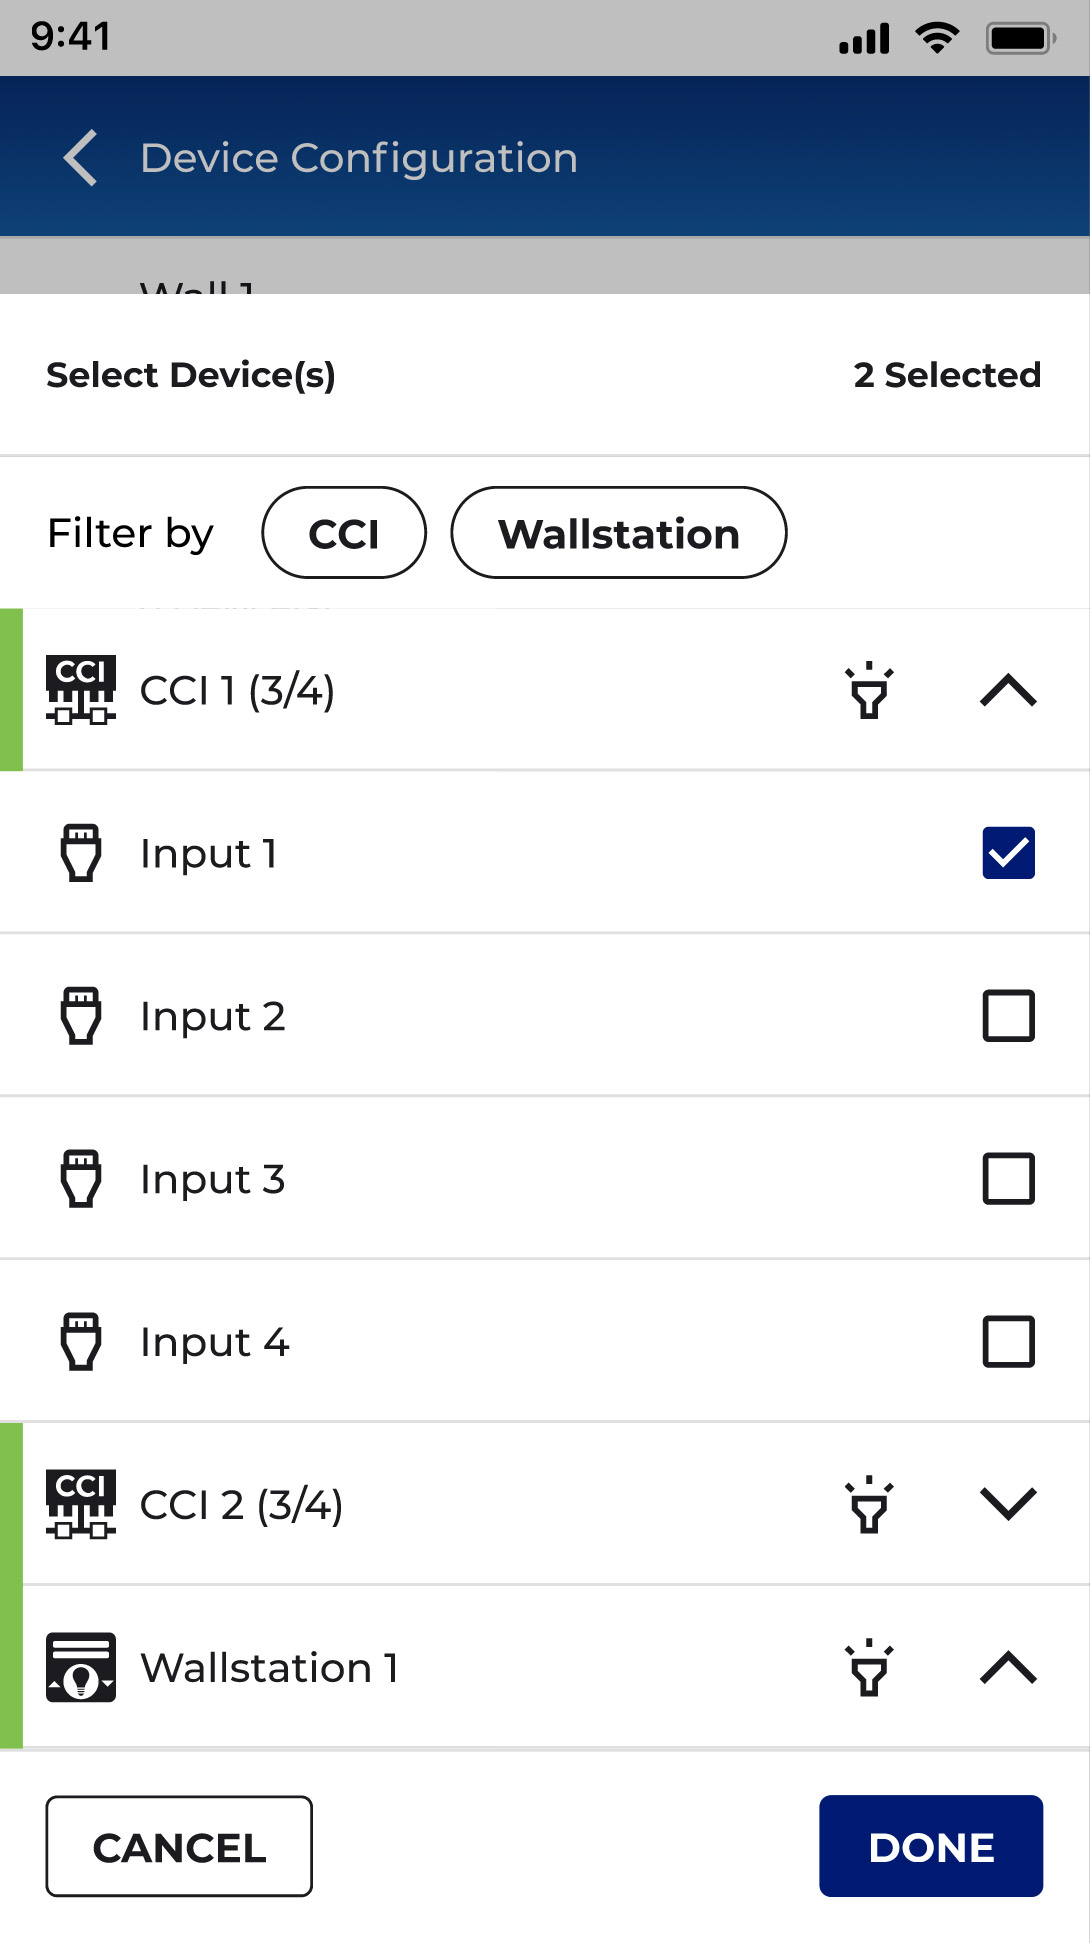
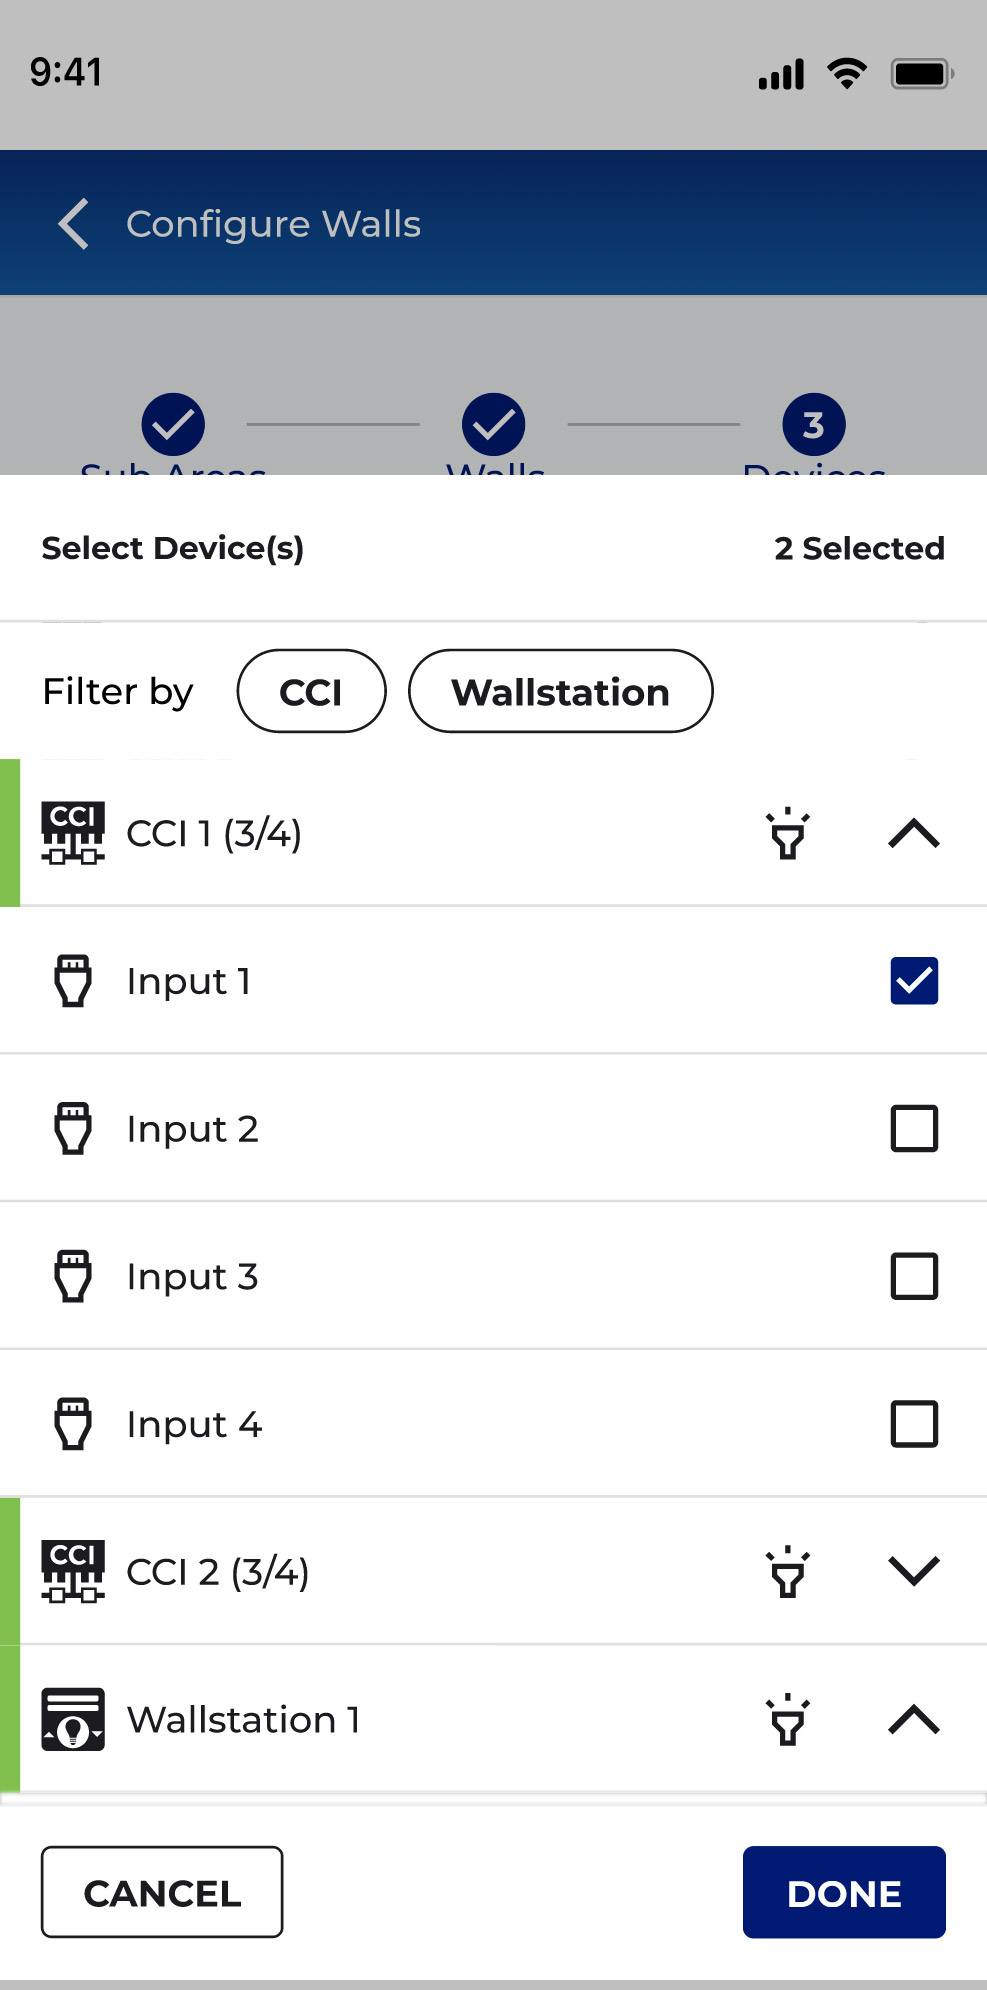
Replace partitioning hero mobile screenshot with Configure Walls capture.
Update the iPhone mock to the Select Device(s) step with accurate alt text and cache-busted framing.

diff --git a/partitioning.dc.html b/partitioning.dc.html
@@ -254,7 +254,7 @@ summary::-webkit-details-marker{display:none}
             <div style="position:absolute;left:-2.5px;top:130px;width:3px;height:30px;border-radius:2px 0 0 2px;background:linear-gradient(#3a3e45,#1c1f24);"></div>
             <div style="position:absolute;right:-2.5px;top:106px;width:3px;height:50px;border-radius:0 2px 2px 0;background:linear-gradient(#3a3e45,#1c1f24);"></div>
             <div class="ip-screen" style="position:relative;overflow:hidden;background:#000;height:300px;">
-              <div class="pt-scroll" style="height:100%;overflow:hidden;"><img src="assets/part/mobile_hero.jpg" alt="WaveLinx mobile Device Configuration, selecting CCI inputs and a wallstation for Wall 1" style="width:100%;display:block;"/></div>
+              <div class="pt-scroll" style="height:100%;overflow:hidden;"><img src="assets/part/mobile_hero.jpg?v=3" alt="WaveLinx Configure Walls step 3, Select Device(s) modal with CCI 1 Input 1 and Wallstation 1 selected" style="width:100%;display:block;object-fit:cover;object-position:top center;"/></div>
               <div style="position:absolute;top:9px;left:50%;transform:translateX(-50%);width:44px;height:13px;background:#000;border-radius:10px;z-index:3;box-shadow:0 0 0 0.5px rgba(255,255,255,0.05);"></div>
             </div>
           </div>